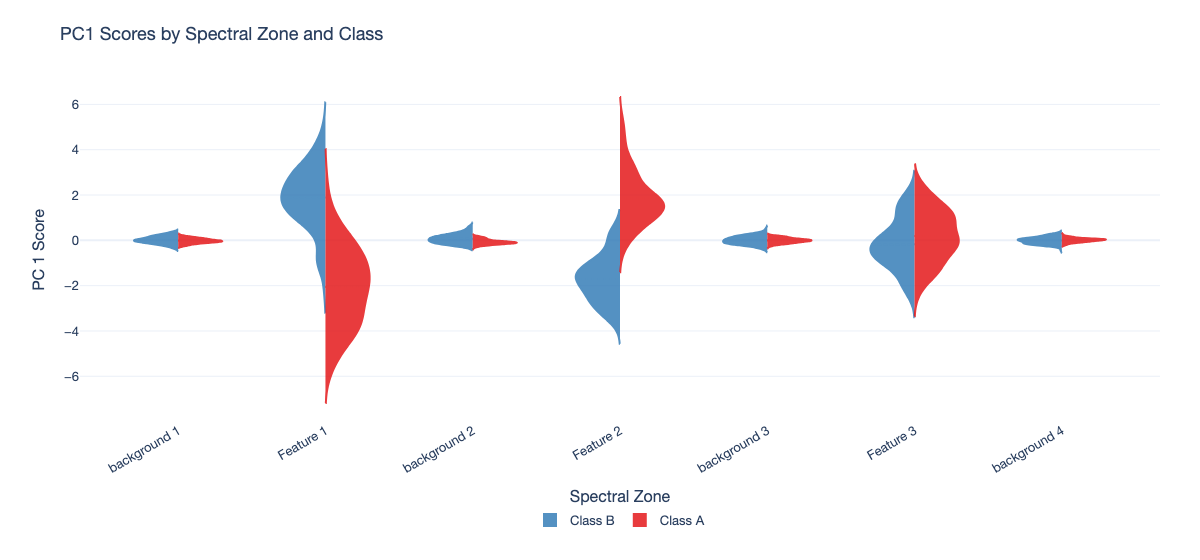
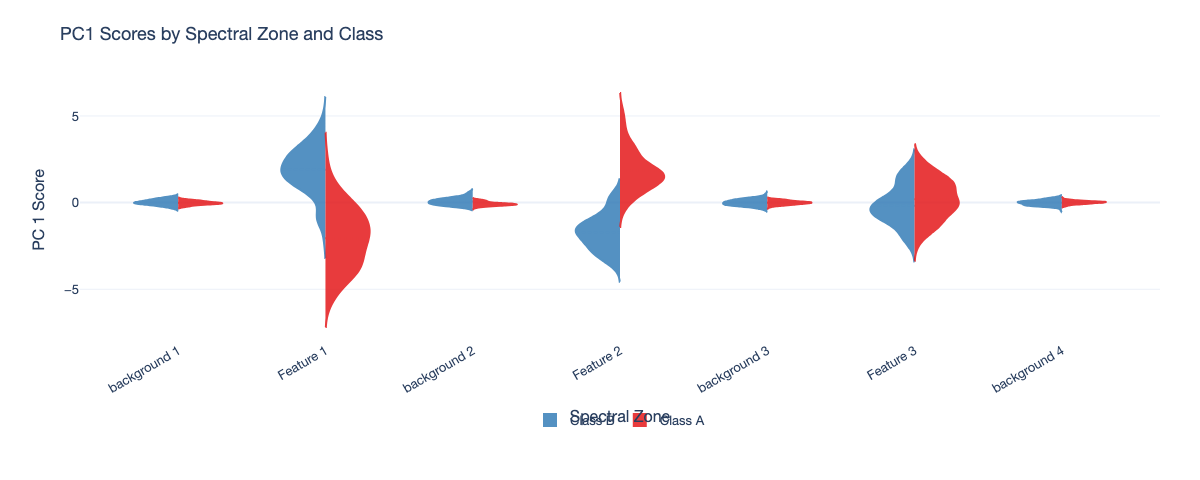
feat: Add Plotting Gallery section to README and update image generation dimensions

diff --git a/examples/generate_gallery_images.py b/examples/generate_gallery_images.py
@@ -90,6 +90,8 @@ explainer.fit(X_cal_prep, y_pred_cal, X_cal_natural=X_cal)
 
 CLASS_COLORS = {"A": "#e41a1c", "B": "#377eb8"}
 
+W, H = 1200, 480  # standard gallery dimensions (2.5 : 1)
+
 # ── 1. Zone ranking over spectrum ──────────────────────────────────────────────
 print("Generating zone_ranking_over_spectrum.png …")
 plot_zone_ranking_over_spectrum(
@@ -101,8 +103,8 @@ plot_zone_ranking_over_spectrum(
     spectrum_name="Mean calibration spectrum",
     class_spectra={"A": X_cal[y_cal == "A"], "B": X_cal[y_cal == "B"]},
     class_colors=CLASS_COLORS,
-    width=1400,
-    height=520,
+    width=W,
+    height=H,
 )
 print(f"  Saved: {ASSETS / 'zone_ranking_over_spectrum.png'}")
 
@@ -127,8 +129,8 @@ plot_threshold_spectrum(
     y_labels=y_cal,
     output_path=ASSETS / "threshold_spectrum.png",
     class_colors=CLASS_COLORS,
-    width=900,
-    height=450,
+    width=W,
+    height=H,
 )
 print(f"  Saved: {ASSETS / 'threshold_spectrum.png'}")
 
@@ -138,8 +140,8 @@ plot_lrc_bar(
     zone_ranking_df=explainer.lrc_natural_,
     output_path=ASSETS / "lrc_bar.png",
     title="LRC Score by Spectral Zone",
-    width=800,
-    height=480,
+    width=W,
+    height=H,
 )
 print(f"  Saved: {ASSETS / 'lrc_bar.png'}")
 
@@ -149,8 +151,8 @@ plot_predicate_heatmap(
     lrc_natural_df=explainer.lrc_natural_,
     output_path=ASSETS / "predicate_heatmap.png",
     title="Predicate LRC Heatmap",
-    width=1000,
-    height=520,
+    width=W,
+    height=H,
 )
 print(f"  Saved: {ASSETS / 'predicate_heatmap.png'}")
 
@@ -162,8 +164,8 @@ plot_zone_scores(
     output_path=ASSETS / "zone_scores.png",
     title="PC1 Scores by Spectral Zone and Class",
     class_colors=CLASS_COLORS,
-    width=1200,
-    height=560,
+    width=W,
+    height=H,
 )
 print(f"  Saved: {ASSETS / 'zone_scores.png'}")
 
@@ -178,8 +180,8 @@ plot_all_thresholds_overlay(
     output_path=ASSETS / "all_thresholds_overlay.png",
     title="All-Zone Threshold Overlay",
     class_colors=CLASS_COLORS,
-    width=1400,
-    height=500,
+    width=W,
+    height=H,
 )
 print(f"  Saved: {ASSETS / 'all_thresholds_overlay.png'}")
 print("Done.")

diff --git a/README.md b/README.md
@@ -121,6 +121,60 @@ In practical terms, the plotting extra enables functions that generate interacti
 
 If plotting routines are invoked in an environment where the plotting extra has not been installed, SMX raises an explicit import-related error with installation guidance. This behavior is intentional: it preserves minimal installation overhead for non-visual workflows while providing clear and immediate feedback when visualization features are requested.
 
+## Plotting Gallery
+
+SMX ships six interactive Plotly visualizations that turn LRC results into
+immediately readable explanations. All figures accept a unified `SMXTheme`
+for consistent styling and support both `.html` (interactive) and
+`.png` / `.svg` / `.pdf` (static, via `kaleido`) output formats.
+
+<table>
+  <tr>
+    <td align="center" width="33%">
+      <a href="smx/plotting/gallery.md#plot_zone_ranking_over_spectrum">
+        <img src="assets/zone_ranking_over_spectrum.png" alt="Zone ranking over spectrum"><br>
+        <b>Zone Ranking</b>
+      </a>
+    </td>
+    <td align="center" width="33%">
+      <a href="smx/plotting/gallery.md#plot_lrc_bar">
+        <img src="assets/lrc_bar.png" alt="Zone importance"><br>
+        <b>Zone Importance</b>
+      </a>
+    </td>
+    <td align="center" width="33%">
+      <a href="smx/plotting/gallery.md#plot_predicate_heatmap">
+        <img src="assets/predicate_heatmap.png" alt="Predicate heatmap"><br>
+        <b>Predicate Heatmap</b>
+      </a>
+    </td>
+  </tr>
+  <tr>
+    <td align="center" width="33%">
+      <a href="smx/plotting/gallery.md#plot_threshold_spectrum">
+        <img src="assets/threshold_spectrum.png" alt="Threshold spectrum"><br>
+        <b>Threshold Spectrum</b>
+      </a>
+    </td>
+    <td align="center" width="33%">
+      <a href="smx/plotting/gallery.md#plot_all_thresholds_overlay">
+        <img src="assets/all_thresholds_overlay.png" alt="All-zone threshold overlay"><br>
+        <b>All-Zone Threshold Overlay</b>
+      </a>
+    </td>
+    <td align="center" width="33%">
+      <a href="smx/plotting/gallery.md#plot_zone_scores">
+        <img src="assets/zone_scores.png" alt="Zone higher variance score"><br>
+        <b>Zone Higher Variance Score</b>
+      </a>
+    </td>
+  </tr>
+</table>
+
+→ See the full [Plotting Gallery](smx/plotting/gallery.md) for usage examples and parameter reference.
+
+---
+
 ## Plotting Helpers
 
 SMX includes Plotly-based visualization helpers for common explanation views.
